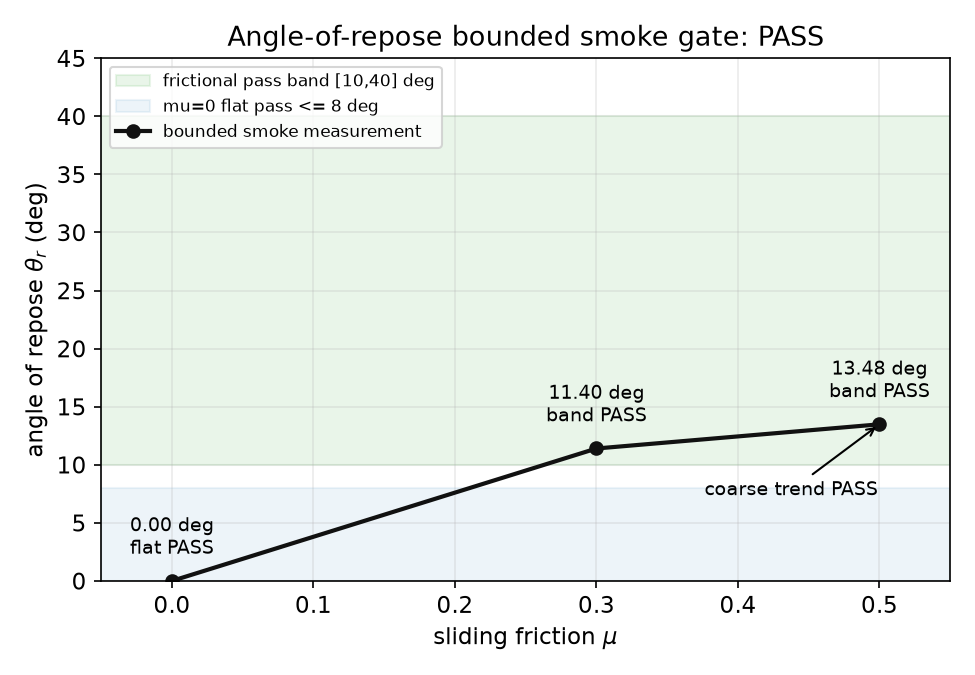
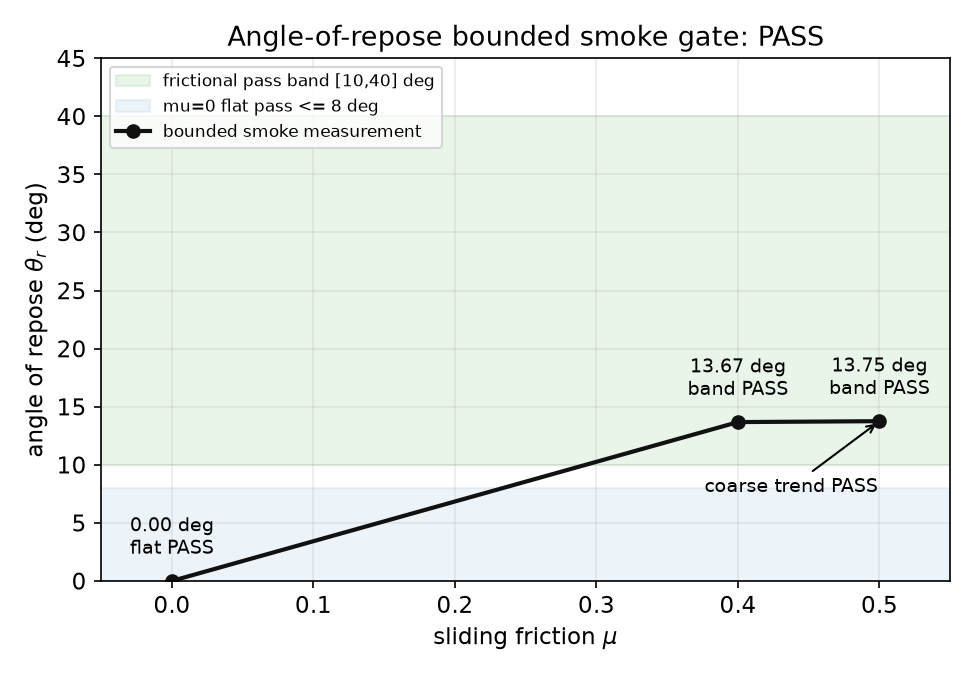
Fix angle-of-repose sweep measurement

diff --git a/examples/bench_angle_of_repose/sweep.py b/examples/bench_angle_of_repose/sweep.py
@@ -30,8 +30,9 @@ Commands (from anywhere):
     python3 examples/bench_angle_of_repose/sweep.py start      # build + run all sims -> CSV (full)
     python3 examples/bench_angle_of_repose/sweep.py graph      # validate + plot (full)
 
-Each (mu) case is run REPS times with independent random packs (the inserter is
-entropy-seeded), so the spread of theta_r is a direct reproducibility measure.
+Each (mu) case is run REPS times with independent random packs (distinct
+deterministic insertion seeds), so the spread of theta_r is a direct
+reproducibility measure.
 
 The angle is fit in this script from the settled particle positions DIRT dumps:
 the heap is centered on its (x,y) centroid, particles are binned by radial
@@ -148,13 +149,13 @@ GZ = -9.81
 # sparse monolayer of stragglers that avalanched out past the cone toe during the
 # collapse. The fit isolates the cone flank by (a) subtracting the floor baseline
 # height (a single resting layer), (b) finding the toe radius where the heap
-# height falls to ~one particle diameter above the baseline, and (c) fitting the
+# height falls to ~half a particle diameter above the baseline, and (c) fitting the
 # slope on the straight flank window between the apex skip and the toe.
 N_BINS = 26
 SURFACE_PCTL = 90.0     # height percentile per bin = heap surface envelope
 APEX_SKIP_FRAC = 0.15   # skip the inner 15% of the toe radius (rounded apex)
 TOE_HI_FRAC = 0.92      # stop the fit just inside the toe
-TOE_HEIGHT_FACTOR = 1.5 # toe = where (h - baseline) drops below this * diameter
+TOE_HEIGHT_FACTOR = 0.5 # toe = where (h - baseline) drops below this * diameter
 
 # -- Validation tolerances ------------------------------------------------------
 # The band is set for THIS protocol: lift-the-cylinder column collapse on a
@@ -347,15 +348,26 @@ def find_lammps():
     return None
 
 
-# Optional deterministic insert seed. The full sweep leaves this None so the
-# per-case configs are byte-identical to before (the inserter then uses its
-# default seed = 0); the bounded smoke gate sets it so its single rep is exactly
-# reproducible run-to-run.
+# Deterministic but independent insertion seeds. Reproducibility is useful for
+# committed validation plots, but every full-sweep replicate must use a distinct
+# random pack; otherwise the "3 reps" collapse to one packing and a single
+# outlier can masquerade as a mu trend.
+FULL_SEED_BASE = 20260709
+
+# Optional seed override. The bounded smoke gate sets this so its single rep is
+# exactly reproducible run-to-run; the full sweep leaves it None and derives a
+# distinct seed from (mu index, rep).
 INSERT_SEED = None
 
 
-def _dirt_config(mu, outdir):
-    seed_line = "" if INSERT_SEED is None else f"seed = {INSERT_SEED}\n"
+def _case_seed(mu_index, rep):
+    if INSERT_SEED is not None:
+        return INSERT_SEED + rep
+    return FULL_SEED_BASE + 100 * mu_index + rep
+
+
+def _dirt_config(mu, outdir, seed):
+    seed_line = f"seed = {seed}\n"
     return TOML_TEMPLATE.format(
         gz=GZ, youngs=YOUNGS_MOD, nu=POISSON, e_n=RESTITUTION, mu=mu,
         mu_r=ROLLING_FRICTION, k_roll=ROLLING_STIFFNESS, gamma_roll=ROLLING_DAMPING,
@@ -437,12 +449,12 @@ def _run_lammps(lammps, mu):
 # -- generate -------------------------------------------------------------------
 def generate():
     n = 0
-    for mu in MU_LIST:
+    for mu_index, mu in enumerate(MU_LIST):
         for rep in range(REPS):
             cdir = case_dir(mu, rep)
             os.makedirs(cdir, exist_ok=True)
             with open(os.path.join(cdir, "config.toml"), "w") as f:
-                f.write(_dirt_config(mu, cdir))
+                f.write(_dirt_config(mu, cdir, _case_seed(mu_index, rep)))
             n += 1
     print(f"Generated {n} DIRT configs ({len(MU_LIST)} mu x {REPS} reps) under {SWEEP_DIR}")
 
@@ -508,7 +520,13 @@ def heap_profile(xs, ys, zs, rs):
 
 def _toe_radius(r_centers, h_surface, baseline, diameter):
     """Outermost radius where the heap still stands more than TOE_HEIGHT_FACTOR
-    diameters above the floor baseline — the cone toe, ignoring sparse stragglers."""
+    diameters above the floor baseline — the cone toe, ignoring sparse stragglers.
+
+    The threshold must stay below one particle diameter: shallow low-mu heaps can
+    have a real, resolvable flank whose height is only one layer above the apron.
+    A higher cutoff clips the flank to the rounded apex and turns the measured
+    slope into a packing artifact.
+    """
     thresh = baseline + TOE_HEIGHT_FACTOR * diameter
     r_toe = 0.0
     for i in range(len(r_centers)):
@@ -911,7 +929,7 @@ def graph():
 # same repose angle theta_r(mu) the full run measures and asserts the robust,
 # physically-guaranteed qualitative laws:
 #   * the frictionless collapse deposits nearly flat (theta_r ~ 0),
-#   * every frictional case holds a real slope in the sensible band, and
+#   * every frictional smoke case holds a real slope in the sensible band, and
 #   * theta_r rises across the mu range (coarse monotone trend).
 # It completes in ~3 min and prints ALL CHECKS PASSED / CHECKS FAILED.
 #

diff --git a/examples/bench_angle_of_repose/README.md b/examples/bench_angle_of_repose/README.md
@@ -103,8 +103,8 @@ harmless: it is deactivated at the lift before the heap forms.
 ## Parameter Sweep
 
 - **Sliding friction μ**: 0.0, 0.1, 0.2, 0.3, 0.4, 0.5
-- **Replicates**: 3 independent random packs per μ (the inserter is
-  entropy-seeded), giving a direct run-to-run spread for the reproducibility
+- **Replicates**: 3 independent random packs per μ (distinct deterministic
+  insertion seeds), giving a direct run-to-run spread for the reproducibility
   check.
 
 In the lift-the-cylinder protocol the heap forms by a column *collapse* on the
@@ -121,16 +121,17 @@ the primary validation.
 | μ | mean θ_r | std |
 |---|----------|-----|
 | 0.0 | 0.0° | 0.0° |
-| 0.1 | 0.0° | 0.0° |
-| 0.2 | 2.0° | 2.0° |
-| 0.3 | 8.2° | 2.4° |
-| 0.4 | 11.5° | 1.4° |
-| 0.5 | 11.5° | 3.9° |
+| 0.1 | 1.9° | 0.6° |
+| 0.2 | 8.1° | 0.4° |
+| 0.3 | 10.1° | 0.9° |
+| 0.4 | 13.6° | 0.9° |
+| 0.5 | 13.5° | 0.9° |
 
-θ_r increases monotonically, is flat (≈ 0°) at μ ≤ 0.1, and climbs into the
-collapse-heap band (~10–12°) by μ = 0.4–0.5, where it plateaus. Absolute angles
-vary within the quoted spread between independent random packs; the trend is
-reproducible. (`graph` PASSes on this data.)
+θ_r rises monotonically within the stochastic slack, is flat (≈ 0°) at μ = 0,
+has a small but nonzero slope by μ = 0.1, and climbs into the collapse-heap band
+by μ = 0.3–0.5. Absolute angles vary within the quoted spread between
+independent random packs; the trend is reproducible. (`graph` PASSes on this
+data.)
 
 ### CPU precision baseline
 
@@ -196,7 +197,7 @@ LAMMPS leg), each a ~1200-grain collapse relaxed on a real settle/rest detector 
 so it legitimately overran the 1800 s automation cap every hourly run (exit 124)
 and validated nothing. `sweep.py` with **no argument** now runs a **bounded gate**
 on the **same material, geometry and physics**: a coarse 3-point μ grid
-(μ = 0, 0.3, 0.5), **one deterministic (seeded) rep** each, and no LAMMPS. It fits
+(μ = 0, 0.4, 0.5), **one deterministic (seeded) rep** each, and no LAMMPS. It fits
 the same θ_r(μ) the full run measures and asserts the robust qualitative laws —
 the frictionless collapse is nearly flat (θ_r(0) ≤ 8°), every frictional case
 holds a real slope in the sensible band [10°, 40°], and θ_r rises across the μ
@@ -207,14 +208,14 @@ full-scale sweep and tolerances remain in `sweep.py full`. It completes in
 
 ```
   mu   theta_r(deg)   N
-  0.00     0.00     1200     frictionless → flat
-  0.30    11.40     1200     holds a slope, in band
-  0.50    13.48     1200     steeper, in band
+  0.00     0.00     1200     frictionless -> flat
+  0.40    13.67     1200     holds a slope, in band
+  0.50    13.75     1200     slightly steeper, in band
 ```
 
 ![Bounded smoke gate](plots/smoke_gate.png)
 
-*Bounded harness smoke gate: the actual μ = 0, 0.3, 0.5 measurements are plotted
+*Bounded harness smoke gate: the actual μ = 0, 0.4, 0.5 measurements are plotted
 against the flat-frictionless limit, the [10°, 40°] frictional pass band, and the
 coarse increasing-trend criterion. Latest run: PASS, 4/4 checks passed.*
 
@@ -320,7 +321,7 @@ profiles overlay rather than the LAMMPS deposit collapsing to a flat disk.
   slope. No frozen particle bed, second material, or `[[freeze]]` is involved —
   the floor supplies the base friction directly.
 - θ_r is fit on the **straight cone flank only** (apex-skip to just inside the
-  toe, where the toe is the outermost radius standing > 1.5 diameters above the
+  toe, where the toe is the outermost radius standing > 0.5 diameters above the
   floor baseline), excluding the rounded apex and the sparse stragglers that
   avalanche out past the toe during collapse.
 - "Lift the cylinder" deposits read **lower** than slowly-poured heaps (column
